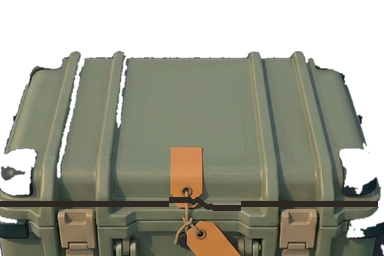
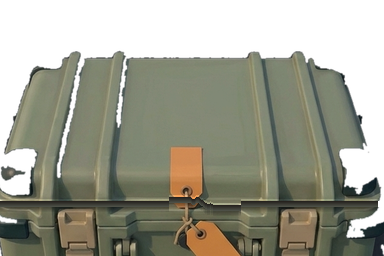
Pods masters pass 126: the opening crate's lid lip and gap shadow

Changed region(s): [[0.0, 0.75, 1.0, 0.8438]]

diff --git a/art/station-masters/pods/tools/cargocut.py b/art/station-masters/pods/tools/cargocut.py
@@ -66,6 +66,19 @@ for x in range(W):
 dark = np.array([46.0, 40.0, 34.0, 255.0]); gp = gapm & ~(low[..., 3] > 128)
 out[gp] = dark
 comp = out.copy(); a_u = up_shift[..., 3:] / 255.0; comp[..., :3] = comp[..., :3] * (1 - a_u) + up_shift[..., :3] * a_u; comp[..., 3] = np.maximum(comp[..., 3], up_shift[..., 3])
+# the art director's return on pass 122 (the torn gap read as a flat dark line): the lifted lid gets a lit lower lip (its last two rows lightened, matte) and the gap a soft shadow: darkest under the lid, fading down the case's front over 5 px
+cl = comp.copy(); H2, W2, _ = cl.shape
+for x in range(W2):
+    col = up_shift[:, x, 3] > 128
+    if not col.any(): continue
+    yb = int(np.where(col)[0].max()); cl[yb - 1:yb + 1, x, :3] = np.clip(cl[yb - 1:yb + 1, x, :3] * 1.22 + 6, 0, 255)           # the lit lip
+    ys_g = np.where(gp[:, x])[0]
+    for k_, yg in enumerate(ys_g): cl[yg, x, :3] = np.array([38.0, 34.0, 30.0]) + (np.array([84.0, 88.0, 78.0]) - np.array([38.0, 34.0, 30.0])) * (k_ / max(1, len(ys_g)))     # the gap, soft: dark at the top, the shadowed case at the bottom
+    if len(ys_g):
+        y0g = int(ys_g.max()) + 1
+        for k_ in range(5):
+            if y0g + k_ < H2 and cl[y0g + k_, x, 3] > 128: cl[y0g + k_, x, :3] = cl[y0g + k_, x, :3] * (0.62 + 0.076 * k_)                      # the shadow on the case's front
+comp = cl
 save("crate-closer-opening-384x256", comp, "the Cargo crate closer, opening: the sealed crate's lid lifted 6 px with a dark gap under it and the orange seal tag torn along a jagged line across the seam, composed by hand from the sealed picture", S2)
 # --- the sealed crate reduced to 256x176 (the whole crate, uniform scale)
 sa = alo = als; bm = als > 0.6; bm[:, 985:] = False; ys, xs = np.where(bm); bx = (xs.min(), ys.min(), xs.max() + 1, ys.max() + 1); w_, h_ = bx[2] - bx[0], bx[3] - bx[1]; s = min(256 / w_, 176 / h_)

diff --git a/art/station-masters/pods/README.md b/art/station-masters/pods/README.md
@@ -797,6 +797,10 @@ The Station art director's dawn fix (returned to `new` after a 1x check: the key
 
 Honest notes: the dawns' saturation (33, 36, 42) stays under the day's (48, 57, 50) and the dusk's (56, 62, 62); the key R-B reaches the asked 35 but not the day's 74. The night glass and the other lights are unchanged.
 
+## Pass 126 - the opening crate's lid lip and gap shadow (no paid call)
+
+The art director's hand fix on `crate-closer-opening-384x256` (the closer set stays held for the region question): the lifted lid has a lit lower lip (its last two rows lightened, matte) and the gap a soft shadow, darkest under the lid and fading down the case's front over 5 px, so it no longer reads as a flat dark line (`tools/cargocut.py`). The open and sealed closers and the small crates are byte-identical. Honest note: the gap's left and right ends still run into the cropped corner guards.
+
 ## Pass 125 - the Probe drafts (owner-approved Pro requests)
 
 The Station art director's PROBE DESIGN step, 2 Pro requests, one per direction, no retry, cap 9 MXN: A, the sampler **4.56 MXN** and B, the scout **4.07 MXN**: 8.63; today's total **154.83 MXN of 250**. Two concept drafts for the art director to choose from (not slices, not in the manifest or status): `concepts/station-probe-drafts/` (its README has the table and the honest notes). Neither shows a needle, syringe, net, drill, weapon or face.
